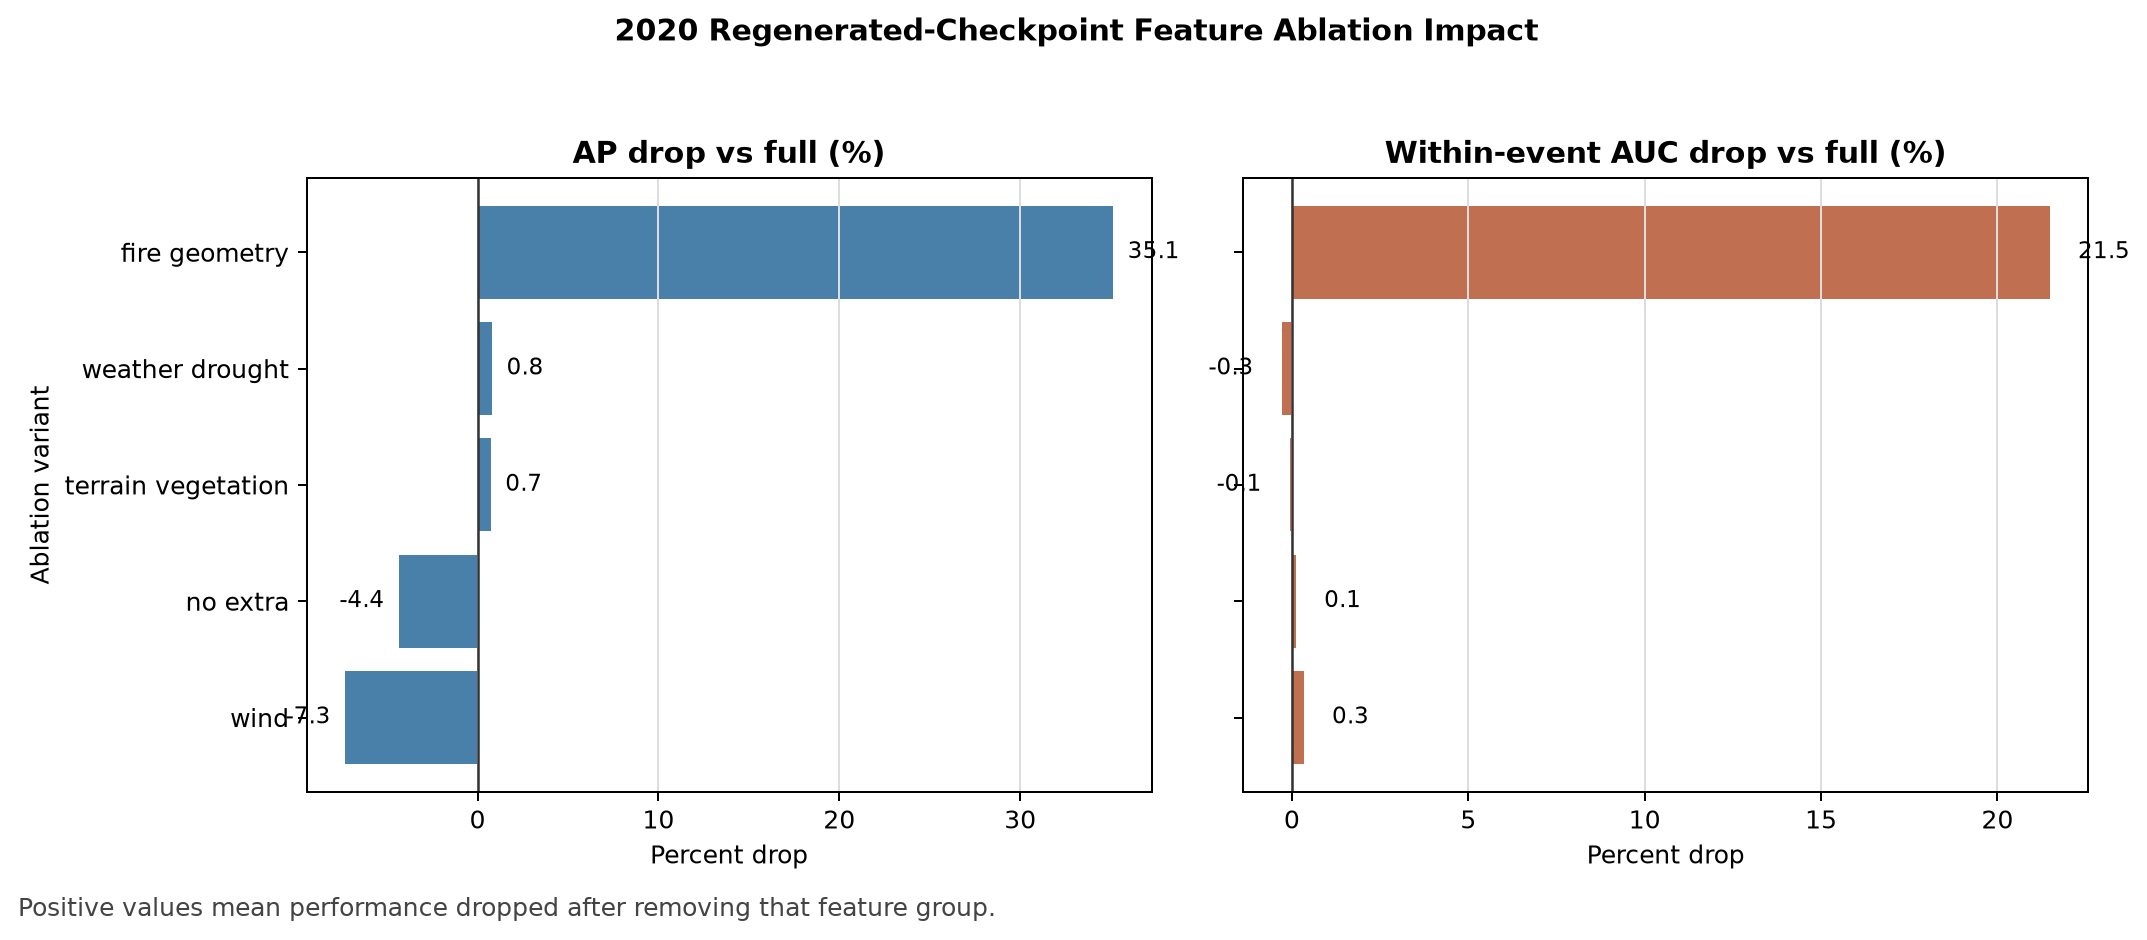
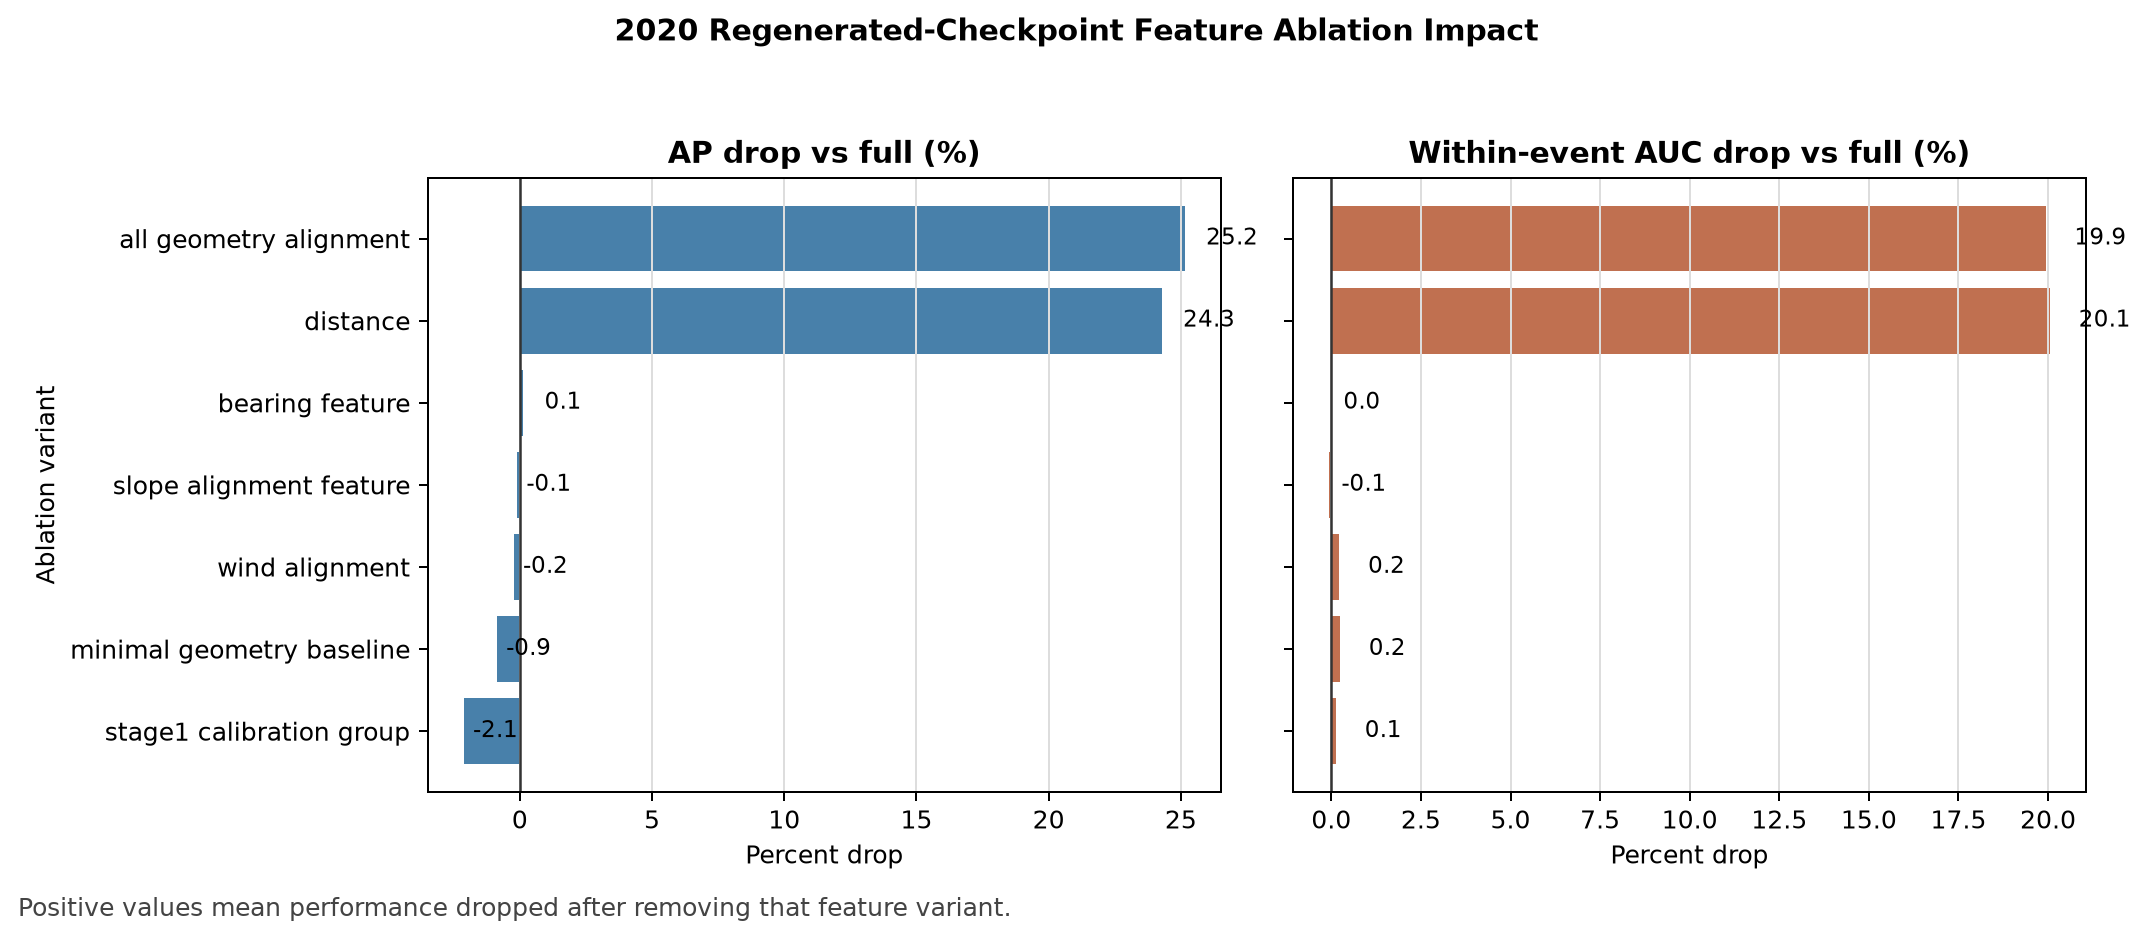
Refine 2020 stage2 ablation variants

diff --git a/scripts/37_run_2020_ablation_experiments.py b/scripts/37_run_2020_ablation_experiments.py
@@ -22,55 +22,78 @@ NON_FEATURE_COLUMNS = {
     "col",
     "label",
 }
-BASELINE_FEATURES = [
+MINIMAL_GEOMETRY_BASELINE_FEATURES = [
     "stage1_probability",
-    "stage1_threshold_mask",
-    "stage1_top_mask",
-    "threshold",
-    "top_fraction",
-    "top_threshold",
-    "has_current_fire",
-    "current_fire_at_candidate",
-    "distance_to_current_fire_px",
     "distance_to_current_fire_km",
-    "bearing_from_fire_deg",
 ]
-FEATURE_GROUPS = {
-    "fire_geometry_features": [
-        "has_current_fire",
-        "current_fire_at_candidate",
+ABLATION_DROP_GROUPS = {
+    "drop_distance_features": [
+        "distance_to_current_fire_px",
+        "distance_to_current_fire_km",
+    ],
+    "drop_bearing_feature": [
+        "bearing_from_fire_deg",
+    ],
+    "drop_wind_alignment_features": [
+        "wind_alignment",
+        "forecast_wind_alignment",
+    ],
+    "drop_slope_alignment_feature": [
+        "slope_alignment",
+    ],
+    "drop_stage1_calibration_group": [
+        "stage1_threshold_mask",
+        "stage1_top_mask",
+        "threshold",
+        "top_fraction",
+        "top_threshold",
+    ],
+    "drop_all_geometry_alignment_features": [
         "distance_to_current_fire_px",
         "distance_to_current_fire_km",
         "bearing_from_fire_deg",
-    ],
-    "wind_features": [
         "wind_alignment",
         "forecast_wind_alignment",
         "slope_alignment",
-        "wind_speed",
-        "wind_direction",
-        "forecast_wind_speed",
-        "forecast_wind_direction",
     ],
-    "weather_drought_features": [
-        "total_precipitation",
-        "minimum_temperature",
-        "maximum_temperature",
-        "energy_release_component",
-        "specific_humidity",
-        "pdsi",
-        "forecast_total_precipitation",
-        "forecast_temperature",
-        "forecast_specific_humidity",
-    ],
-    "terrain_vegetation_features": [
-        "ndvi",
-        "evi2",
-        "slope",
-        "aspect",
-        "elevation",
-        "landcover_class",
-    ],
+}
+VARIANT_DESCRIPTIONS = {
+    "full_features": "Full Stage 2 feature set.",
+    "drop_distance_features": (
+        "Full set minus distance_to_current_fire_px and distance_to_current_fire_km."
+    ),
+    "drop_bearing_feature": "Full set minus bearing_from_fire_deg.",
+    "drop_wind_alignment_features": (
+        "Full set minus wind_alignment and forecast_wind_alignment."
+    ),
+    "drop_slope_alignment_feature": "Full set minus slope_alignment.",
+    "drop_stage1_calibration_group": (
+        "Full set minus stage1_threshold_mask, stage1_top_mask, threshold, "
+        "top_fraction, and top_threshold."
+    ),
+    "drop_all_geometry_alignment_features": (
+        "Full set minus distance, bearing, wind alignment, forecast alignment, "
+        "and slope alignment features."
+    ),
+    "minimal_geometry_baseline": (
+        "Only stage1_probability and distance_to_current_fire_km."
+    ),
+}
+VARIANT_ORDER = {
+    variant: index
+    for index, variant in enumerate(
+        [
+            "full_features",
+            "drop_distance_features",
+            "drop_bearing_feature",
+            "drop_wind_alignment_features",
+            "drop_slope_alignment_feature",
+            "drop_stage1_calibration_group",
+            "drop_all_geometry_alignment_features",
+            "minimal_geometry_baseline",
+        ],
+        start=1,
+    )
 }
 MODEL_SOURCE = "regenerated_imagenet_noamp_full2020"
 
@@ -175,7 +198,23 @@ def main() -> None:
     table["within_event_auc_drop_percent_vs_full"] = percentage_drop(
         full_auc, table["within_event_auc"]
     )
-    table = table.sort_values("ap_drop_vs_full", ascending=False)
+    table["row"] = table["variant"].map(VARIANT_ORDER)
+    table["feature_configuration"] = table["variant"].map(VARIANT_DESCRIPTIONS)
+    table = table.sort_values("row")
+    table = table[
+        [
+            "row",
+            "variant",
+            "feature_configuration",
+            "average_precision",
+            "roc_auc",
+            "within_event_auc",
+            "ap_drop_vs_full",
+            "within_event_auc_drop_vs_full",
+            "ap_drop_percent_vs_full",
+            "within_event_auc_drop_percent_vs_full",
+        ]
+    ]
     table.to_csv(args.output_dir / "2020_ablation_metrics.csv", index=False)
     (args.output_dir / "2020_ablation_metrics.json").write_text(
         json.dumps(table.to_dict(orient="records"), indent=2) + "\n",
@@ -188,6 +227,7 @@ def main() -> None:
         "test_csv": str(args.test_csv),
         "figure_output": str(args.figure_output),
         "seed": args.seed,
+        "variant_descriptions": VARIANT_DESCRIPTIONS,
     }
     (args.output_dir / "2020_ablation_metadata.json").write_text(
         json.dumps(metadata, indent=2) + "\n",
@@ -206,15 +246,16 @@ def feature_column_names(frame: pd.DataFrame) -> list[str]:
 
 
 def build_variants(full_feature_columns: list[str]) -> dict[str, list[str]]:
-    variants = {
-        "no_extra_features": [
-            feature for feature in BASELINE_FEATURES if feature in full_feature_columns
+    variants = {}
+    for variant_name, drop_features in ABLATION_DROP_GROUPS.items():
+        variants[variant_name] = [
+            feature for feature in full_feature_columns if feature not in drop_features
         ]
-    }
-    for group_name, group_features in FEATURE_GROUPS.items():
-        variants[f"drop_{group_name}"] = [
-            feature for feature in full_feature_columns if feature not in group_features
-        ]
+    variants["minimal_geometry_baseline"] = [
+        feature
+        for feature in MINIMAL_GEOMETRY_BASELINE_FEATURES
+        if feature in full_feature_columns
+    ]
     return variants
 
 
@@ -342,9 +383,14 @@ def render_ablation_figure(table: pd.DataFrame, output_path: Path) -> Path:
         axis.set_xlabel("Percent drop")
         axis.grid(axis="x", color="#dddddd", linewidth=0.8)
         for index, value in enumerate(values):
-            x_offset = 0.8 if value >= 0 else -0.8
-            ha = "left" if value >= 0 else "right"
-            axis.text(value + x_offset, index, f"{value:.1f}", va="center", ha=ha, fontsize=9)
+            if value >= 0:
+                x = value + 0.8
+                ha = "left"
+            else:
+                x = value + 0.35
+                ha = "left"
+            label_value = 0.0 if abs(value) < 0.05 else value
+            axis.text(x, index, f"{label_value:.1f}", va="center", ha=ha, fontsize=9)
 
     axes[0].set_yticks(y_positions, labels)
     axes[0].set_ylabel("Ablation variant")
@@ -356,7 +402,7 @@ def render_ablation_figure(table: pd.DataFrame, output_path: Path) -> Path:
     fig.text(
         0.01,
         0.02,
-        "Positive values mean performance dropped after removing that feature group.",
+        "Positive values mean performance dropped after removing that feature variant.",
         fontsize=10,
         color="#444444",
     )

diff --git a/outputs/tanisha_followup_experiments/TANISHA_FOLLOWUP_RESULTS.md b/outputs/tanisha_followup_experiments/TANISHA_FOLLOWUP_RESULTS.md
@@ -10,7 +10,7 @@ All new follow-up figures are in this follow-up output folder's `figures/` direc
 |---|---|---|
 | `01_top5_added_feature_shap_heatmap.png` | Highest-scoring regenerated-checkpoint sampled alert across five unique fire events, with grouped added-feature SHAP contributions. | Direct answer to the SHAP request: it shows how added feature groups contribute at top alert locations across five unique fire events. |
 | `02_top5_alert_locations_lat_lon_table.png` | Top Stage 2 raster row/column alert locations converted to latitude/longitude. | Direct answer to the coordinate-conversion request. |
-| `03_feature_group_ablation_impact.png` | 2020 regenerated-checkpoint percent AP and within-event AUC drop after removing added feature groups. | Direct answer to the no-added-feature and ablation request. |
+| `03_feature_group_ablation_impact.png` | 2020 regenerated-checkpoint percent AP and within-event AUC drop after removing the specific distance, bearing, alignment, and Stage 1 calibration features. | Direct answer to the corrected ablation request. |
 
 Related figure tables:
 
@@ -53,7 +53,9 @@ Related figure tables:
 
 | Column | Definition |
 |---|---|
-| `variant` | Feature set used for that LightGBM run. `no_extra_features` keeps only basic Stage 1/current-fire/distance-style features; `drop_*` removes one added feature group from the full feature set. |
+| `row` | Row number matching the corrected ablation table. |
+| `variant` | Feature set used for that LightGBM run. `drop_*` removes the named feature or feature family from the full feature set; `minimal_geometry_baseline` keeps only `stage1_probability` and `distance_to_current_fire_km`. |
+| `feature_configuration` | Human-readable feature configuration for the row. |
 | `average_precision` | Area under the precision-recall curve for candidate ranking. Higher is better. |
 | `within_event_auc` | Mean ROC AUC computed inside event-day candidate groups. Higher is better for ranking candidates within the same fire context. |
 | `ap_drop_percent_vs_full` | Percent AP loss relative to the regenerated full-feature model. Positive means performance dropped when the feature group was removed. |
@@ -61,18 +63,21 @@ Related figure tables:
 
 ## 2020 Regenerated-Checkpoint Ablation Results
 
-| variant | average_precision | within_event_auc | ap_drop_percent_vs_full | within_event_auc_drop_percent_vs_full |
-|---|---:|---:|---:|---:|
-| drop_fire_geometry_features | 0.1629 | 0.6752 | 35.1393 | 21.4829 |
-| drop_weather_drought_features | 0.2491 | 0.8625 | 0.8038 | -0.2906 |
-| drop_terrain_vegetation_features | 0.2492 | 0.8605 | 0.7342 | -0.0587 |
-| full_features | 0.2511 | 0.8600 | 0.0000 | 0.0000 |
-| no_extra_features | 0.2620 | 0.8590 | -4.3518 | 0.1141 |
-| drop_wind_features | 0.2695 | 0.8571 | -7.3242 | 0.3367 |
+| row | variant | average_precision | within_event_auc | ap_drop_percent_vs_full | within_event_auc_drop_percent_vs_full |
+|---:|---|---:|---:|---:|---:|
+| 1 | full_features | 0.2511 | 0.8600 | 0.0000 | 0.0000 |
+| 2 | drop_distance_features | 0.1901 | 0.6875 | 24.2821 | 20.0550 |
+| 3 | drop_bearing_feature | 0.2507 | 0.8601 | 0.1355 | -0.0127 |
+| 4 | drop_wind_alignment_features | 0.2517 | 0.8580 | -0.2296 | 0.2262 |
+| 5 | drop_slope_alignment_feature | 0.2513 | 0.8606 | -0.1025 | -0.0680 |
+| 6 | drop_stage1_calibration_group | 0.2564 | 0.8588 | -2.1202 | 0.1331 |
+| 7 | drop_all_geometry_alignment_features | 0.1879 | 0.6885 | 25.1528 | 19.9344 |
+| 8 | minimal_geometry_baseline | 0.2533 | 0.8579 | -0.8663 | 0.2458 |
 
 ## Interpretation
 
 - The full-feature row matches the regenerated-checkpoint 2020 discrimination summary: AP `0.2511` and within-event AUC `0.8600`.
-- Removing fire-geometry features causes the largest drop: AP drops by `35.1%` and within-event AUC drops by `21.5%`.
-- Weather/drought and terrain/vegetation removals cause small AP drops and nearly unchanged within-event AUC.
-- The no-extra and no-wind variants score slightly higher on AP than the full model in this regenerated 2020 run; treat negative drops as split/test-set variance or feature redundancy, not as a claim that those features are harmful.
+- Distance features carry the clearest added signal: removing `distance_to_current_fire_px` and `distance_to_current_fire_km` drops AP by `24.3%` and within-event AUC by `20.1%`.
+- Removing all geometry/alignment features gives a similar degradation: AP drops by `25.2%` and within-event AUC by `19.9%`.
+- Bearing, wind alignment, slope alignment, and Stage 1 calibration removals are close to the full model in this regenerated 2020 run; small negative drops should be treated as split/test-set variance or feature redundancy, not as evidence that the features are harmful.
+- The minimal two-feature baseline is competitive on AP but slightly lower on within-event AUC, so the cleanest contribution claim is that distance/geometry features drive most of the measurable gain in within-event discrimination.

diff --git a/outputs/tanisha_followup_experiments/figures/README.md b/outputs/tanisha_followup_experiments/figures/README.md
@@ -16,10 +16,10 @@ This folder contains only the new figures for the original thesis follow-up requ
 - Purpose: converts the top Stage 2 raster row/column alert locations into latitude/longitude coordinates.
 - Use for: the request to show what model output locations look like after coordinate conversion.
 
-## Figure 3: Added-Feature Ablation Impact
+## Figure 3: Corrected Feature Ablation Impact
 
 - File: `03_feature_group_ablation_impact.png`
-- Purpose: shows the 2020 regenerated-checkpoint percent performance drop after removing added feature groups, using average precision and within-event AUC.
-- Use for: the request to test whether LightGBM performance goes down without added features and which feature groups contribute most.
+- Purpose: shows the 2020 regenerated-checkpoint percent performance drop after removing the specific distance, bearing, alignment, and Stage 1 calibration features, using average precision and within-event AUC.
+- Use for: the corrected request to test the contribution of the added Stage 2 geometry/alignment features without mixing them with raw context features.
 
 The earlier scatter plot attempt was removed because it was less clear than the heatmap.
